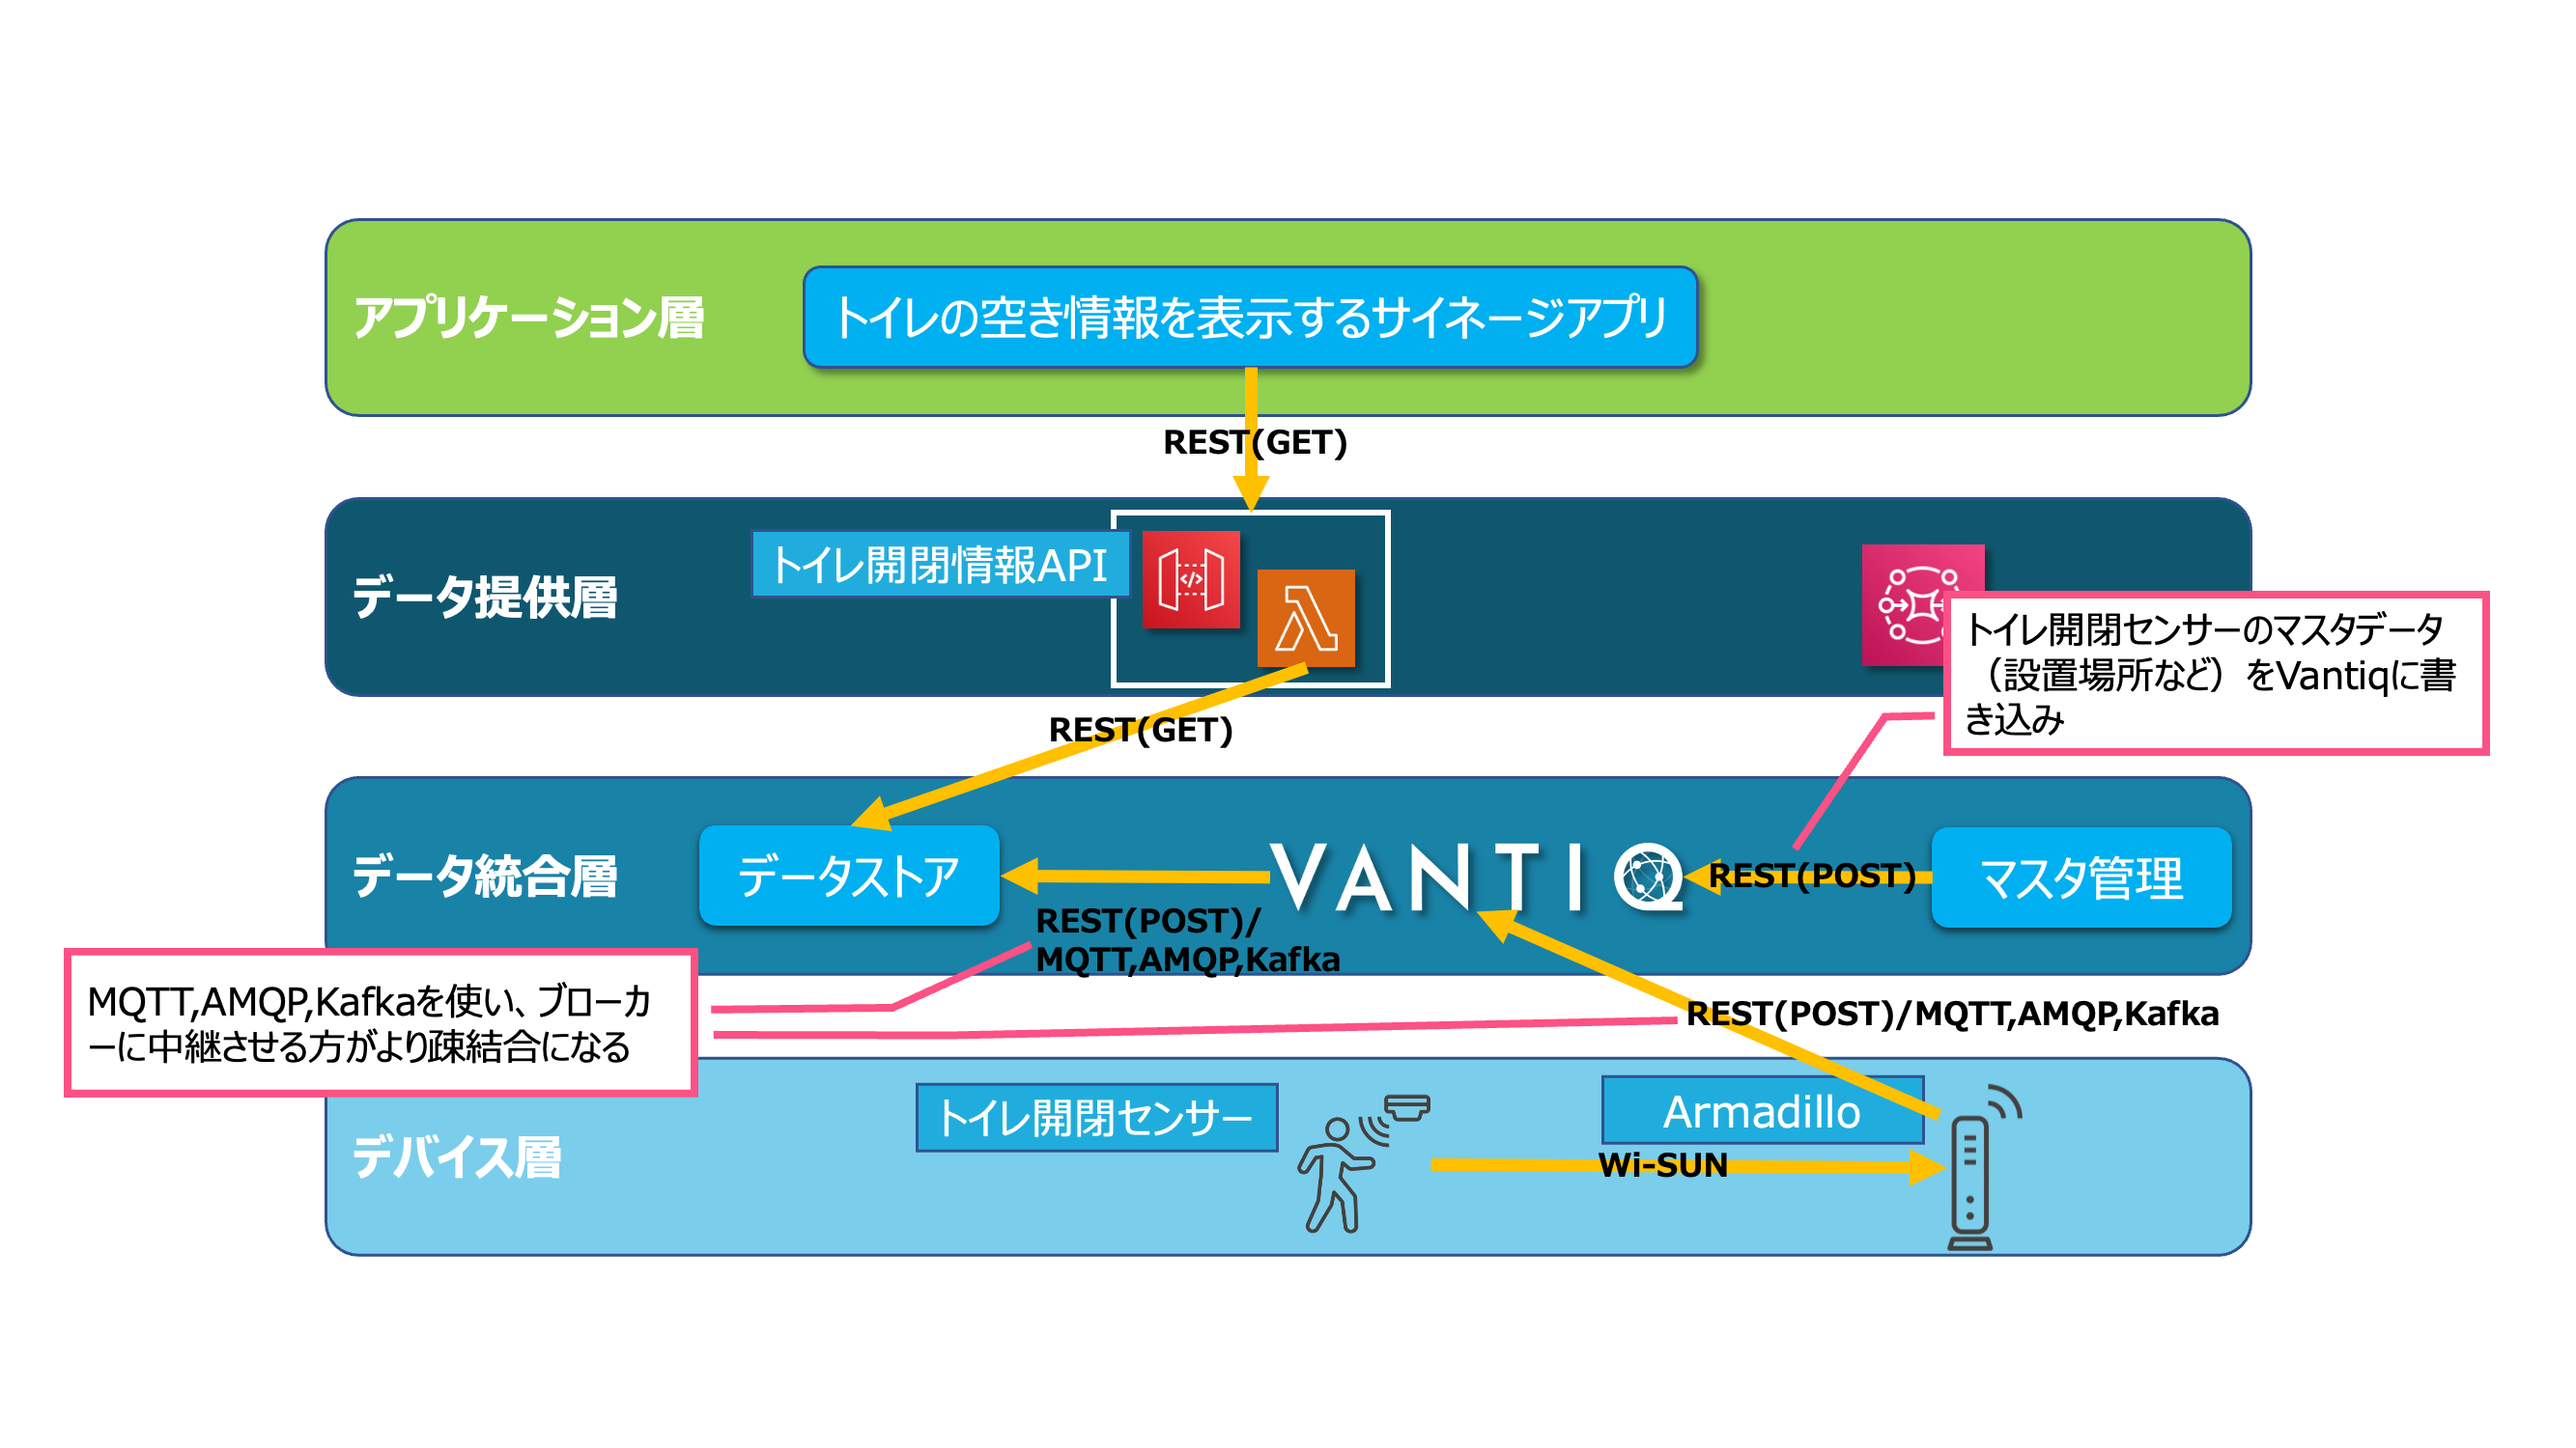
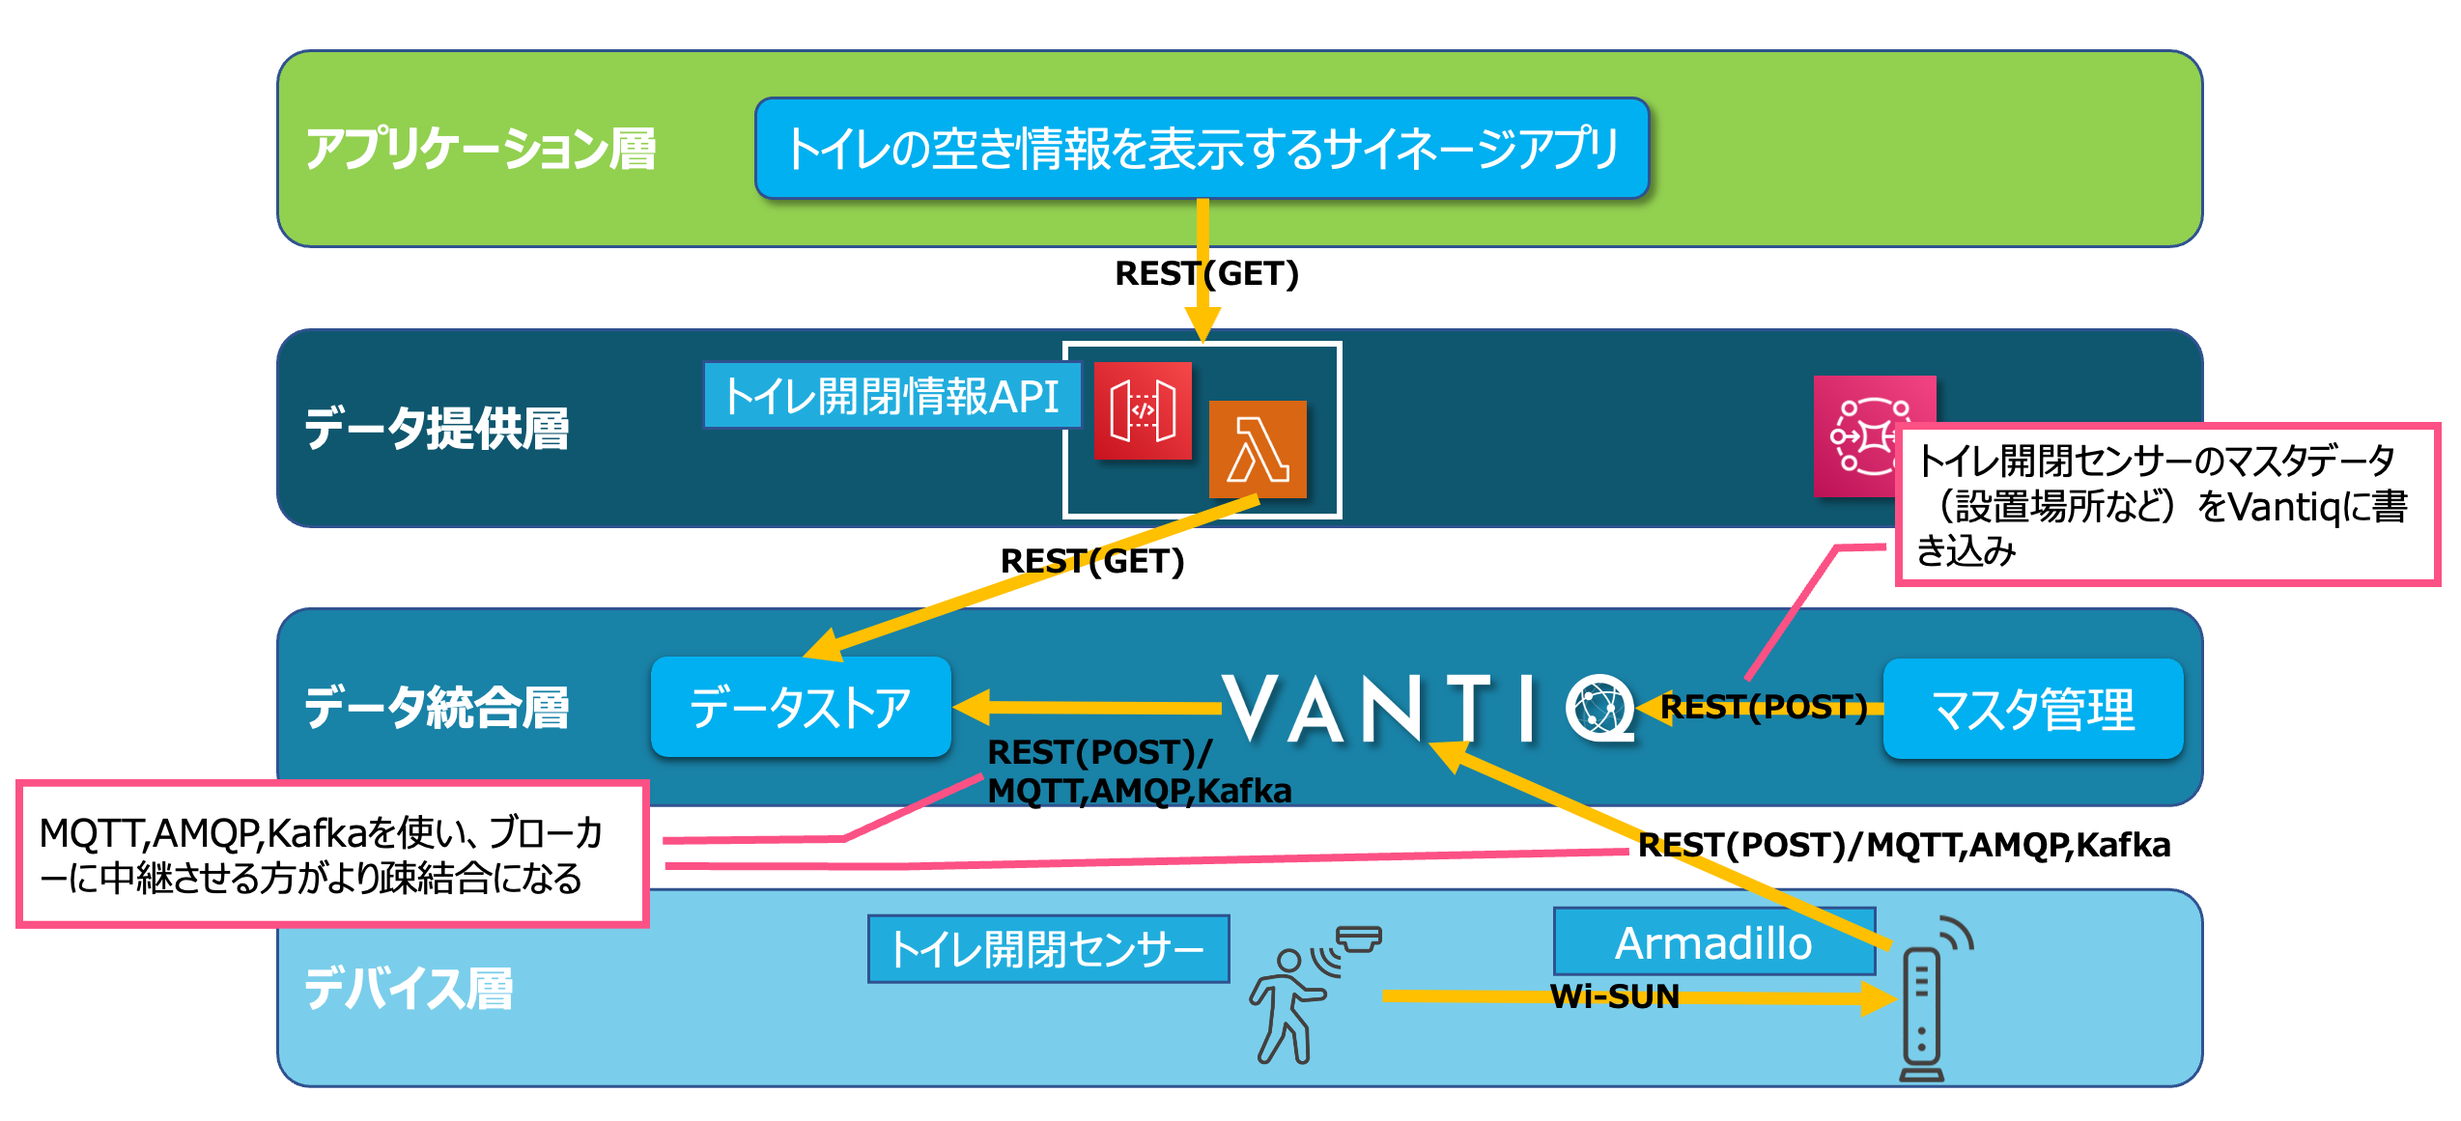
Add eng images

diff --git a/README.md b/README.md
@@ -5,7 +5,7 @@
 # Smart Building Quick Start Kit 
 
 スマートビル化を行うプロジェクトを推進するために必要な知識、考え方、注意点をまとめています。
-また、実際にシステム構築ができるよう各レイヤーごとにサンプルを用意しています。
+また、実際にシステム構築ができるようサンプルを用意しています。
 
 `スマートビル化`とはセンサーやカメラなどのデバイスをビルに設置し、ビル全体をセンシングできるようにした上でそれらの情報を開発者が用意に活用できる状態を指しています。
 
